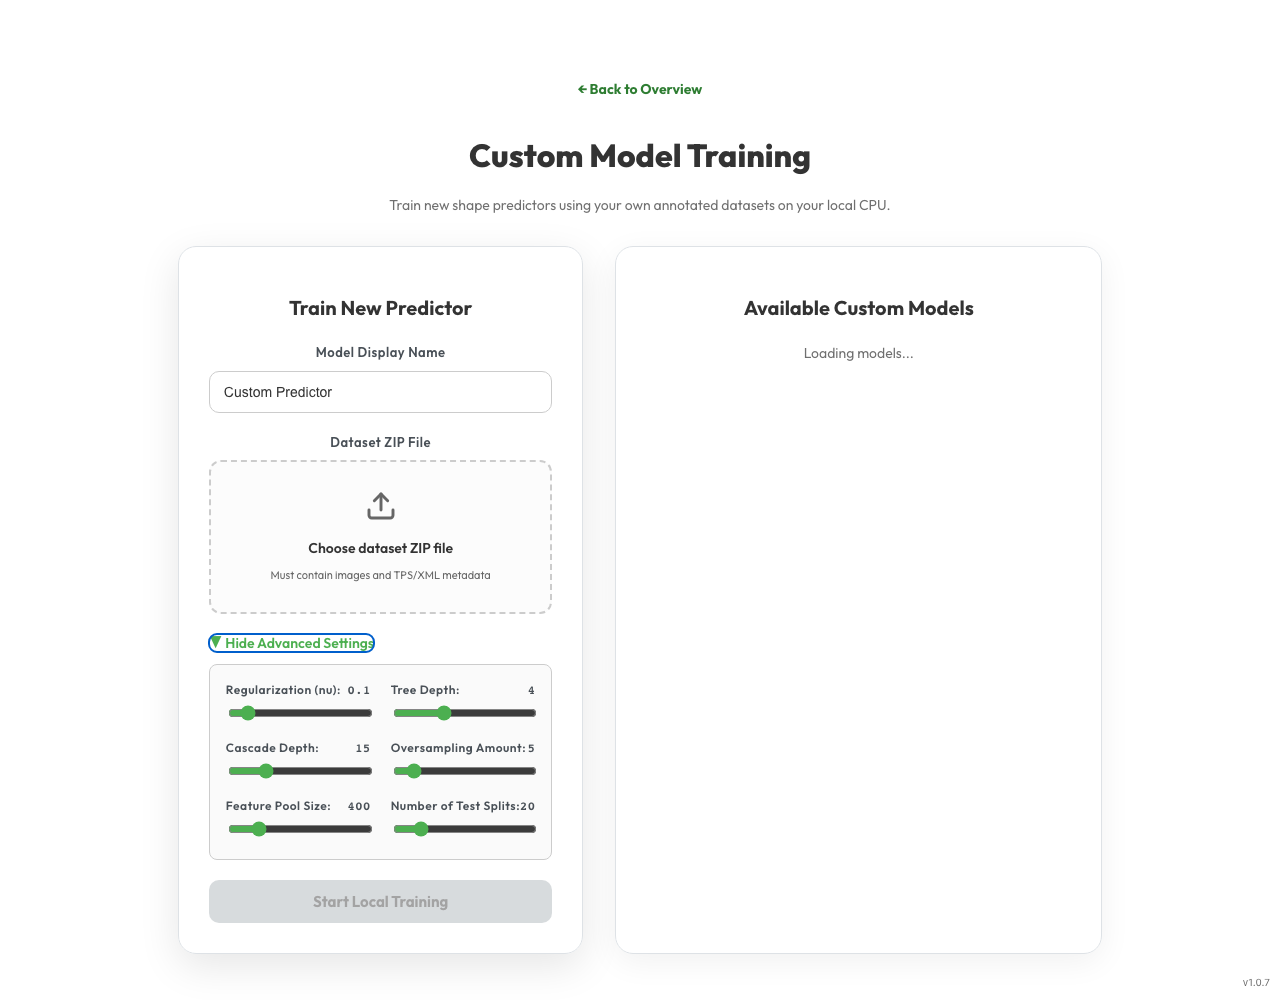
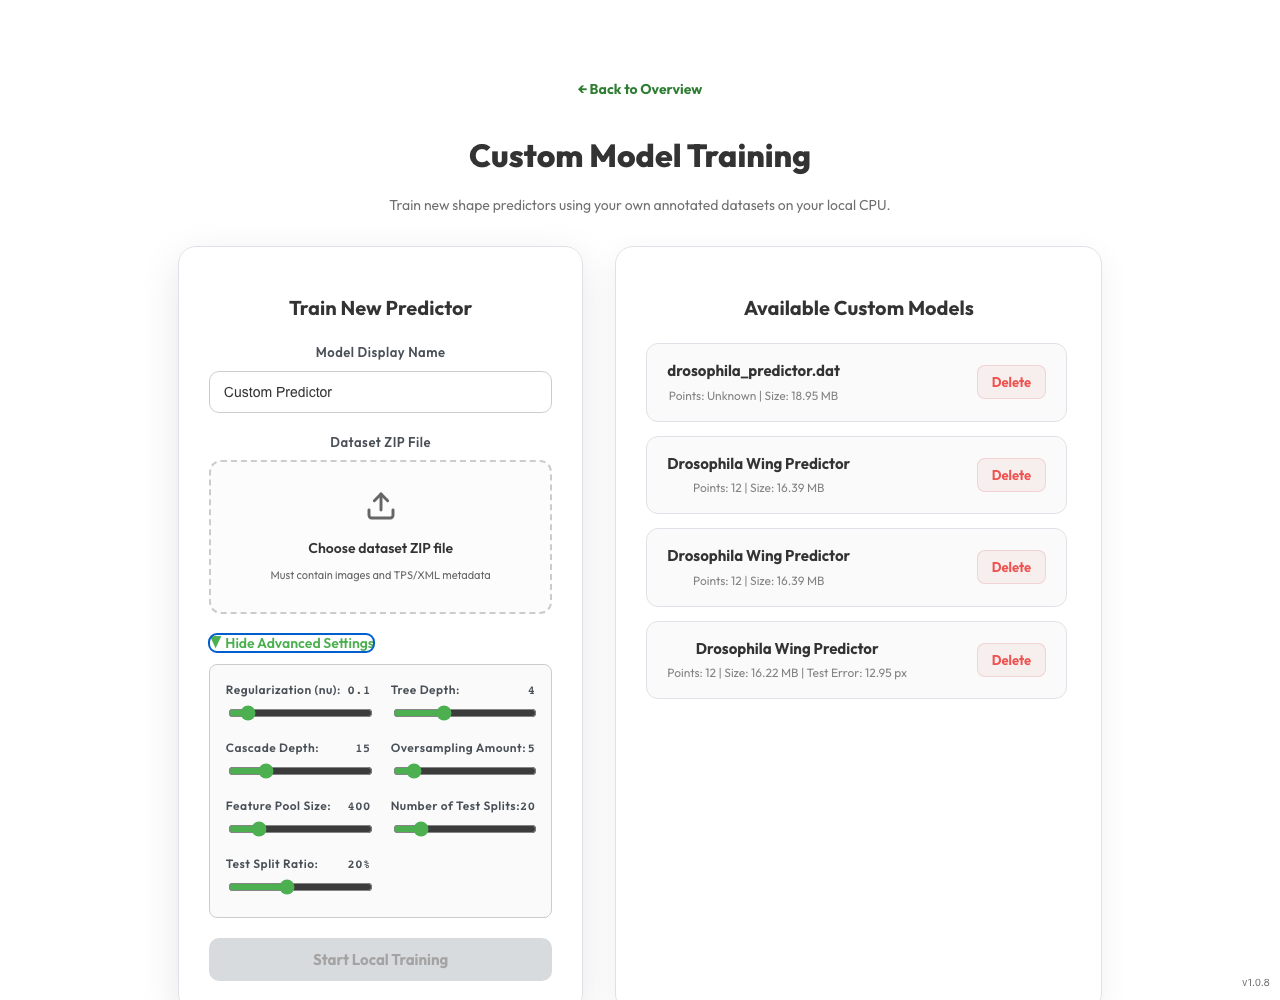
feat(training): split dataset and calculate test accuracy, add test_split option to UI and tutorial

diff --git a/frontend/src/views/TrainView.tsx b/frontend/src/views/TrainView.tsx
@@ -36,6 +36,7 @@ export const TrainView: React.FC<Props> = ({ onNavigateHome }) => {
   const [oversamplingAmount, setOversamplingAmount] = useState<number>(5);
   const [featurePoolSize, setFeaturePoolSize] = useState<number>(400);
   const [numTestSplits, setNumTestSplits] = useState<number>(20);
+  const [testSplit, setTestSplit] = useState<number>(0.2);
 
   const pollIntervalRef = useRef<number | null>(null);
 
@@ -79,7 +80,8 @@ export const TrainView: React.FC<Props> = ({ onNavigateHome }) => {
         cascade_depth: cascadeDepth,
         oversampling_amount: oversamplingAmount,
         feature_pool_size: featurePoolSize,
-        num_test_splits: numTestSplits
+        num_test_splits: numTestSplits,
+        test_split: testSplit
       });
       if (!res.success || !res.job_id) {
         throw new Error((res as any).error || res.message || "Failed to start training (no job ID returned)");
@@ -600,6 +602,23 @@ export const TrainView: React.FC<Props> = ({ onNavigateHome }) => {
                       style={{ width: "100%", accentColor: "#4CAF50" }}
                     />
                   </div>
+
+                  {/* Test Split Ratio */}
+                  <div className="form-group" style={{ margin: 0 }}>
+                    <label className="form-label" style={{ fontSize: "12px", marginBottom: "4px", display: "flex", justifyContent: "space-between" }}>
+                      <span>Test Split Ratio:</span> <code>{Math.round(testSplit * 100)}%</code>
+                    </label>
+                    <input
+                      type="range"
+                      min="0.0"
+                      max="0.5"
+                      step="0.05"
+                      value={testSplit}
+                      onChange={(e) => setTestSplit(parseFloat(e.target.value))}
+                      disabled={isTraining}
+                      style={{ width: "100%", accentColor: "#4CAF50" }}
+                    />
+                  </div>
                 </div>
               )}
             </div>
@@ -652,6 +671,7 @@ export const TrainView: React.FC<Props> = ({ onNavigateHome }) => {
                     <div style={{ fontWeight: 700, fontSize: "15px" }}>{p.display_name}</div>
                     <div style={{ fontSize: "12px", opacity: 0.6, marginTop: "4px" }}>
                       Points: {p.num_parts ?? "Unknown"} | Size: {p.size_bytes ? `${(p.size_bytes / (1024 * 1024)).toFixed(2)} MB` : "Unknown size"}
+                      {p.test_accuracy !== undefined && p.test_accuracy !== null ? ` | Test Error: ${p.test_accuracy.toFixed(2)} px` : ""}
                     </div>
                   </div>
                   <button

diff --git a/frontend/src/services/ApiService.ts b/frontend/src/services/ApiService.ts
@@ -299,6 +299,7 @@ export class ApiService {
       oversampling_amount?: number;
       feature_pool_size?: number;
       num_test_splits?: number;
+      test_split?: number;
     }
   ): Promise<{ success: boolean; job_id: string; message: string }> {
     const base = await apiUrl();
@@ -374,4 +375,5 @@ export interface PredictorMeta {
   uploaded_at?: string;
   size_bytes?: number;
   num_parts?: number | null;
+  test_accuracy?: number | null;
 }

diff --git a/backend/utils.py b/backend/utils.py
@@ -1926,6 +1926,72 @@ def predictions_to_xml_single_from_client_annotations(image_path: str, output: s
     return obj_count
 
 
+def split_dlib_dataset(xml_path, test_ratio=0.2, seed=42):
+    """
+    Splits a dlib XML dataset into train and test XML datasets.
+    Returns (train_xml_path, test_xml_path).
+    If test_ratio is 0 or dataset is too small, returns (xml_path, None).
+    """
+    if test_ratio <= 0.0 or test_ratio >= 1.0:
+        return xml_path, None
+
+    import random
+    import xml.etree.ElementTree as ET
+    
+    try:
+        tree = ET.parse(xml_path)
+        root = tree.getroot()
+        images_container = root.find("images")
+        if images_container is None:
+            return xml_path, None
+
+        images = list(images_container.findall("image"))
+        num_images = len(images)
+        
+        # We need at least 2 images to do a split
+        if num_images < 2:
+            return xml_path, None
+
+        test_count = max(1, min(num_images - 1, int(round(num_images * test_ratio))))
+        
+        # Shuffle using a fixed seed for reproducibility
+        rng = random.Random(seed)
+        indices = list(range(num_images))
+        rng.shuffle(indices)
+        
+        test_indices = set(indices[:test_count])
+        
+        # Create train and test documents
+        train_root = ET.Element("dataset")
+        name_el = root.find("name")
+        if name_el is not None:
+            ET.SubElement(train_root, "name").text = name_el.text
+        train_images_container = ET.SubElement(train_root, "images")
+        
+        test_root = ET.Element("dataset")
+        if name_el is not None:
+            ET.SubElement(test_root, "name").text = (name_el.text or "Model") + " (test)"
+        test_images_container = ET.SubElement(test_root, "images")
+        
+        for idx, image in enumerate(images):
+            if idx in test_indices:
+                test_images_container.append(image)
+            else:
+                train_images_container.append(image)
+                
+        base_dir = os.path.dirname(xml_path)
+        train_xml_path = os.path.join(base_dir, "train_dataset.xml")
+        test_xml_path = os.path.join(base_dir, "test_dataset.xml")
+        
+        ET.ElementTree(train_root).write(train_xml_path, encoding="utf-8")
+        ET.ElementTree(test_root).write(test_xml_path, encoding="utf-8")
+        
+        return train_xml_path, test_xml_path
+    except Exception as e:
+        # Fallback to single file on any error
+        return xml_path, None
+
+
 def train_predictor_from_zip(model_name, zip_path, predictor_id, index_path, files_dir, custom_options=None, index_lock=None):
     """
     Extracts a ZIP containing images and annotations, formats a dlib dataset, trains
@@ -2058,17 +2124,23 @@ def train_predictor_from_zip(model_name, zip_path, predictor_id, index_path, fil
             tree.write(dataset_xml_path)
             
         # 3. Train dlib predictor
+        opts = custom_options or {}
+        test_ratio = float(opts.get("test_split", 0.2))
+        train_xml_path, test_xml_path = split_dlib_dataset(dataset_xml_path, test_ratio)
+        
+        # Count images in the training XML to cap threads
+        try:
+            train_tree = ET.parse(train_xml_path)
+            num_images = len(train_tree.getroot().findall(".//image"))
+        except Exception:
+            num_images = 1
+
         options = dlib.shape_predictor_training_options()
         # Cap per-job threads to prevent CPU starvation (max 4 threads or CPU count)
         options.num_threads = min(4, os.cpu_count() or 1)
-        # Cap num_threads to prevent dlib shape predictor training segfault on small datasets
-        if tps_file:
-            num_images = len(tps_data["im"])
-        else:
-            num_images = len(root.findall(".//image"))
         if num_images > 0:
             options.num_threads = min(options.num_threads, num_images)
-        opts = custom_options or {}
+            
         options.nu = float(opts.get("nu", 0.1))
         options.tree_depth = int(opts.get("tree_depth", 4))
         options.cascade_depth = int(opts.get("cascade_depth", 15))
@@ -2080,9 +2152,9 @@ def train_predictor_from_zip(model_name, zip_path, predictor_id, index_path, fil
         output_model_path = os.path.join(files_dir, f"{predictor_id}.dat")
         
         try:
-            dlib.train_shape_predictor(dataset_xml_path, output_model_path, options)
+            dlib.train_shape_predictor(train_xml_path, output_model_path, options)
             
-            # Validate predictor via library structure
+            # Validate predictor via dlib shape predictor metadata
             sp = dlib.shape_predictor(output_model_path)
             
             # Retrieve num_parts safely
@@ -2095,6 +2167,15 @@ def train_predictor_from_zip(model_name, zip_path, predictor_id, index_path, fil
                 except Exception:
                     num_parts = 0
             
+            # Calculate test accuracy (mean pixel error)
+            test_accuracy = None
+            if test_xml_path and os.path.exists(test_xml_path):
+                try:
+                    test_error = dlib.test_shape_predictor(test_xml_path, output_model_path)
+                    test_accuracy = round(float(test_error), 4)
+                except Exception as eval_ex:
+                    logger.error(f"Error calculating test accuracy: {eval_ex}")
+            
             iso_timestamp = time.strftime("%Y-%m-%dT%H:%M:%SZ", time.gmtime())
             meta = predictor_library.PredictorMeta(
                 id=predictor_id,
@@ -2102,7 +2183,8 @@ def train_predictor_from_zip(model_name, zip_path, predictor_id, index_path, fil
                 stored_filename=f"{predictor_id}.dat",
                 uploaded_at=iso_timestamp,
                 size_bytes=os.path.getsize(output_model_path),
-                num_parts=num_parts
+                num_parts=num_parts,
+                test_accuracy=test_accuracy
             )
             
             # Save to list index

diff --git a/backend/tests/test_training.py b/backend/tests/test_training.py
@@ -558,5 +558,39 @@ def test_api_train_predictor_job_pruning(tmp_path):
         app_module.JOBS_DIR = old_jobs_dir
 
 
+def test_split_dlib_dataset(temp_workspace):
+    from utils import split_dlib_dataset
+    import xml.etree.ElementTree as ET
+    xml_path = os.path.join(temp_workspace, "dataset.xml")
+    
+    # Create a dummy XML dataset with 5 images
+    root = ET.Element("dataset")
+    ET.SubElement(root, "name").text = "Test Model"
+    images_container = ET.SubElement(root, "images")
+    
+    for i in range(5):
+        img_el = ET.SubElement(images_container, "image", file=f"img{i}.jpg")
+        box_el = ET.SubElement(img_el, "box", top="1", left="1", width="10", height="10")
+        ET.SubElement(box_el, "part", name="0", x="5", y="5")
+        
+    ET.ElementTree(root).write(xml_path, encoding="utf-8")
+    
+    # Split with 40% (2 test images, 3 train images)
+    train_xml, test_xml = split_dlib_dataset(xml_path, test_ratio=0.4, seed=42)
+    
+    assert train_xml is not None
+    assert test_xml is not None
+    assert os.path.exists(train_xml)
+    assert os.path.exists(test_xml)
+    
+    train_tree = ET.parse(train_xml)
+    train_images = train_tree.getroot().find("images").findall("image")
+    assert len(train_images) == 3
+    
+    test_tree = ET.parse(test_xml)
+    test_images = test_tree.getroot().find("images").findall("image")
+    assert len(test_images) == 2
+
+
 
 

diff --git a/backend/app.py b/backend/app.py
@@ -674,6 +674,7 @@ def list_predictors():
                             "uploaded_at": p.uploaded_at,
                             "size_bytes": p.size_bytes,
                             "num_parts": p.num_parts,
+                            "test_accuracy": p.test_accuracy,
                         }
                         for p in predictors
                     ],
@@ -804,6 +805,8 @@ def start_train_predictor():
                 custom_options["feature_pool_size"] = max(50, min(2000, int(request.form["feature_pool_size"])))
             if "num_test_splits" in request.form:
                 custom_options["num_test_splits"] = max(5, min(100, int(request.form["num_test_splits"])))
+            if "test_split" in request.form:
+                custom_options["test_split"] = max(0.0, min(0.5, float(request.form["test_split"])))
         except ValueError as e:
             return jsonify({"success": False, "error": f"Invalid parameter format: {e}"}), 400
 

diff --git a/backend/predictor_library.py b/backend/predictor_library.py
@@ -21,6 +21,7 @@ class PredictorMeta:
     uploaded_at: str
     size_bytes: int
     num_parts: Optional[int] = None
+    test_accuracy: Optional[float] = None
 
 
 def ensure_dir(path: str) -> None:

diff --git a/tutorial.md b/tutorial.md
@@ -59,6 +59,7 @@ If you are working with specialized datasets (e.g. very small image counts, high
 | **Oversampling Amount** | `5` | `0` - `50` | The number of times each image is randomly deformed and replicated. Larger oversampling increases rotation and translation robustness but prolongs training time. |
 | **Feature Pool Size** | `400` | `50` - `2000` | The number of pixel intensity comparison pairs sampled to construct each tree. Larger pools yield higher landmark resolution at the expense of higher CPU memory consumption. |
 | **Number of Test Splits** | `20` | `5` - `100` | The number of candidate feature splits evaluated at each tree node. Higher values search more splits to find optimal decisions, which increases training duration. |
+| **Test Split Ratio** | `20%` | `0%` - `50%` | The percentage of the uploaded dataset split and reserved to evaluate the trained shape predictor. The calculated mean pixel error on the test dataset is reported upon model completion. |
 
 ---
 